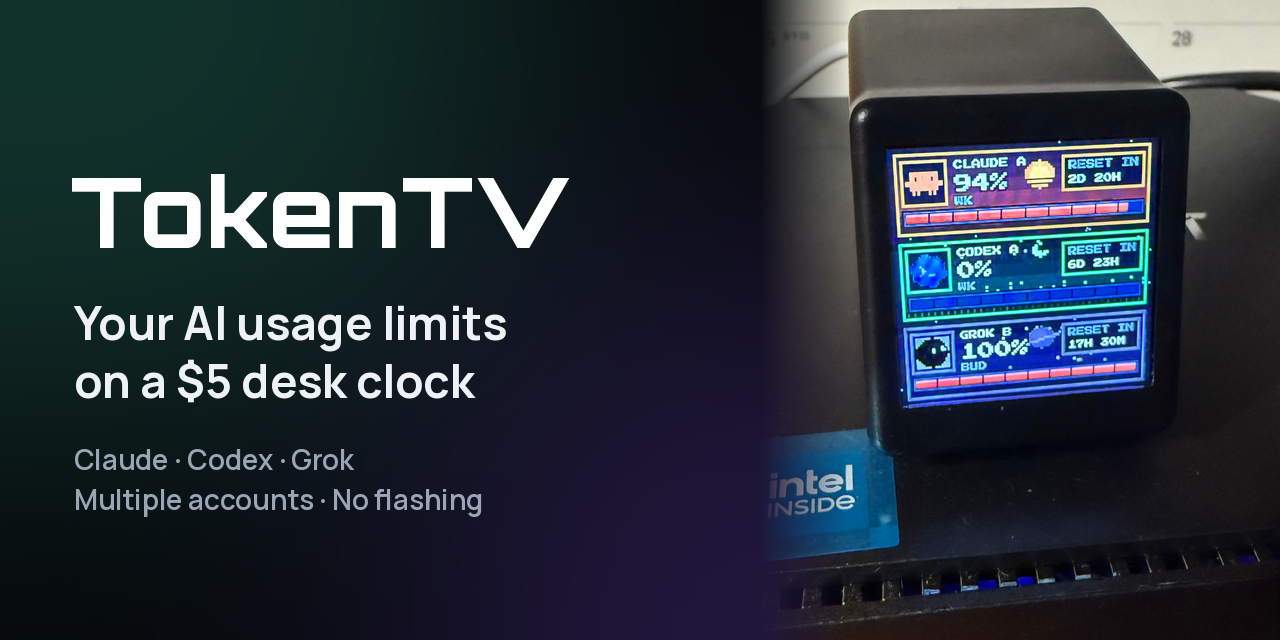
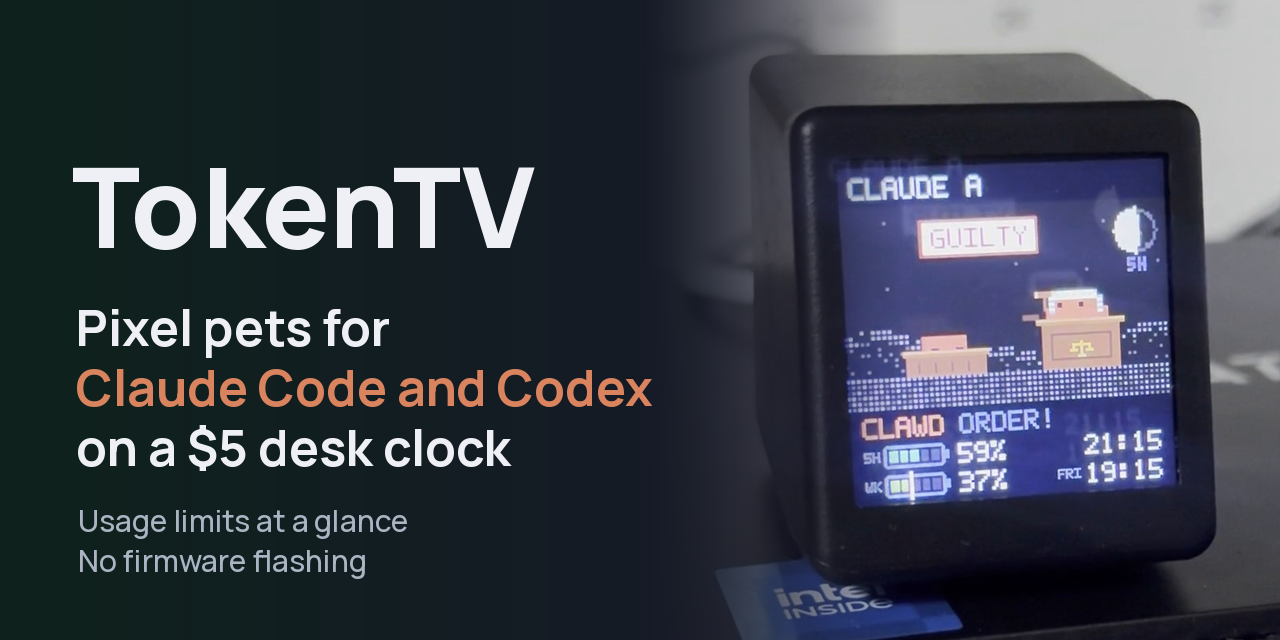
README: one real-clock GIF up top, the pitch on the first screen, shorter text; a link preview card with the pets
The top GIF is the daylight clip of a real clock playing sample scenes (court, ghost, sulk, raised hand, then
the limits), cropped close so the screen reads. The rendered four faces and the small clock GIF repeated the
photos above them, so they go (the files stay: the 0.6.2 pages on PyPI and npm still show them). "No firmware
flashing." is back in the first line, and the Korean README matches the English one.

diff --git a/README.md b/README.md
@@ -6,26 +6,21 @@
   <a href="https://github.com/steipete/CodexBar#desk-display"><img alt="Listed in CodexBar" src="https://img.shields.io/badge/listed%20in-CodexBar-555555"></a>
 </p>
 
-<p align="center"><a href="https://click6067-ship-it.github.io/token-tv/meet/"><img src="https://raw.githubusercontent.com/click6067-ship-it/token-tv/main/docs/images/real-reactions.gif" width="320" alt="A real TokenTV clock playing sample scenes: Clawd bows when Claude finishes a task, goes on trial when Claude runs rm -rf and turns its back when you swear at Claude"></a></p>
-<p align="center"><img src="https://raw.githubusercontent.com/click6067-ship-it/token-tv/main/docs/images/real-photos.jpg" width="600" alt="Digital, Sci-Fi HUD, Neon and Arcade on the real clock"> <a href="https://youtube.com/shorts/FN5DLILYiI0"><img src="https://raw.githubusercontent.com/click6067-ship-it/token-tv/main/docs/images/real-clock.gif" width="146" alt="TokenTV on a real clock (16 seconds; the full video is on YouTube)"></a></p>
-<p align="center"><img src="https://raw.githubusercontent.com/click6067-ship-it/token-tv/main/docs/images/main-faces.png" width="600" alt="The four main faces: Digital, Sci-Fi HUD, Neon and Arcade (sample data)"></p>
+<p align="center"><a href="https://click6067-ship-it.github.io/token-tv/meet/"><img src="https://raw.githubusercontent.com/click6067-ship-it/token-tv/main/docs/images/real-reactions.gif" width="360" alt="A real TokenTV clock playing sample scenes at 2.5x speed: Clawd goes on trial when Claude runs rm -rf, a ghost floats by when it deletes a file, it turns its back when you swear and raises a hand when Claude needs permission; then the usage limits"></a></p>
 
 Turn a ~$5 AliExpress clock (GeekMagic SmallTV) into pixel pets for Claude Code and Codex. They react to your agents and keep your usage limits in sight. No firmware flashing.
 
-**Live demo:** [click6067-ship-it.github.io/token-tv](https://click6067-ship-it.github.io/token-tv/)  
-**YouTube:** [https://www.youtube.com/shorts/FN5DLILYiI0](https://youtube.com/shorts/FN5DLILYiI0)  
 **Try it:** [live demo](https://click6067-ship-it.github.io/token-tv/) or `npx token-tv demo`, no clock or login needed.  
-**Set it up:** run `npx token-tv start` (or `uvx token-tv start`) on a computer that stays on. It finds your signed-in tools and the clock on your Wi-Fi, keeps running in the background and opens your dashboard. Or tell your AI *"Set up TokenTV for me"* ([AGENTS.md](https://github.com/click6067-ship-it/token-tv/blob/main/AGENTS.md)).
+**Set it up:** `npx token-tv start` (or `uvx token-tv start`) on a computer that stays on. It finds the clock on your Wi-Fi and your signed-in tools. Or tell your AI *"Set up TokenTV for me"* ([AGENTS.md](https://github.com/click6067-ship-it/token-tv/blob/main/AGENTS.md)).
 
-**New: Claude Code mode.** Clawd raises a hand when Claude Code needs you, bows when a turn ends, holds court over risky commands and sulks when you shout ([set it up](https://github.com/click6067-ship-it/token-tv/blob/main/docs/claude-code-mod.md)).
+<p align="center"><img src="https://raw.githubusercontent.com/click6067-ship-it/token-tv/main/docs/images/real-photos.jpg" width="600" alt="Digital, Sci-Fi HUD, Neon and Arcade on the real clock"></p>
 
-**New: Arcade.** When you're coding, the bots get busy too. Codex, for example, rains code to grow flowers while it spends tokens: the more it spends, the fuller the garden. Grok refuels its rocket and, resting, gazes up at Earth, and Copilot and Anti are the newest friends.
+**Claude Code mode:** Clawd raises a hand when Claude needs you, holds court over risky commands and sulks when you shout ([set it up](https://github.com/click6067-ship-it/token-tv/blob/main/docs/claude-code-mod.md)).  
+**Arcade:** the bots get busy while you code. Codex rains code on its garden, Grok fuels its rocket, and Copilot and Anti join in.
 
 <p align="center"><img src="https://raw.githubusercontent.com/click6067-ship-it/token-tv/main/docs/images/highlight-claude.gif" width="150" alt="Clawd breakdancing"> <img src="https://raw.githubusercontent.com/click6067-ship-it/token-tv/main/docs/images/highlight-codex.gif" width="150" alt="The Codex cloud raining code on its flowers"> <img src="https://raw.githubusercontent.com/click6067-ship-it/token-tv/main/docs/images/highlight-grok.gif" width="150" alt="Grok's rocket losing a side booster"> <img src="https://raw.githubusercontent.com/click6067-ship-it/token-tv/main/docs/images/highlight-copilot.gif" width="150" alt="Copilot drawing a heart in the sky"> <img src="https://raw.githubusercontent.com/click6067-ship-it/token-tv/main/docs/images/highlight-anti.gif" width="150" alt="Anti floating in zero gravity"></p>
 
-**Each reacts in its own way.** With little left, one rushes and another frets.  
-**And a few secret scenes.** Some come only at certain hours, some only after a bot has really worked, and some almost never. Each lasts only a moment, and we're not telling you which. [The collection](https://click6067-ship-it.github.io/token-tv/collection/) shows how much is out there.
+**Secret scenes:** some only at certain hours, some almost never. [The collection](https://click6067-ship-it.github.io/token-tv/collection/) shows how many there are.
 
-Simple numbers at a glance, and cute while it's at it. Coding alone at 3 a.m.? Your bots are still up with you, and someone might even make you coffee. Ideas, suggestions and PRs are welcome. *Cuteness is a feature.*
-
-**More:** [TokenTV in the wild](https://github.com/click6067-ship-it/token-tv/blob/main/docs/in-the-wild.md) (press, lists, builds by others, clips you may reuse) · [Which clock to buy](https://github.com/click6067-ship-it/token-tv/blob/main/docs/hardware-compatibility.md#buying-a-clock)
+*Cuteness is a feature.* Ideas and PRs welcome.  
+**More:** [video](https://youtube.com/shorts/FN5DLILYiI0) · [TokenTV in the wild](https://github.com/click6067-ship-it/token-tv/blob/main/docs/in-the-wild.md) · [which clock to buy](https://github.com/click6067-ship-it/token-tv/blob/main/docs/hardware-compatibility.md#buying-a-clock)

diff --git a/README.ko.md b/README.ko.md
@@ -6,23 +6,21 @@
   <a href="https://github.com/steipete/CodexBar#desk-display"><img alt="Listed in CodexBar" src="https://img.shields.io/badge/listed%20in-CodexBar-555555"></a>
 </p>
 
-<p align="center"><img src="docs/images/real-photos.jpg" width="600" alt="실제 시계의 Digital, Sci-Fi HUD, Neon, Arcade 화면"> <a href="https://youtube.com/shorts/FN5DLILYiI0"><img src="docs/images/real-clock.gif" width="146" alt="실제 시계에서 도는 TokenTV(16초, 전체 영상은 유튜브)"></a></p>
-<p align="center"><img src="docs/images/main-faces.png" width="600" alt="대표 화면 네 가지: Digital, Sci-Fi HUD, Neon, Arcade(샘플 데이터)"></p>
+<p align="center"><a href="https://click6067-ship-it.github.io/token-tv/meet/"><img src="docs/images/real-reactions.gif" width="360" alt="실제 TokenTV 시계가 예시 장면을 2.5배속으로 재생: Claude가 rm -rf를 돌리면 재판, 파일을 지우면 유령, 욕하면 등 돌리기, 허락이 필요하면 손 들기, 그리고 사용량 화면"></a></p>
 
-약 5달러 알리익스프레스 시계(GeekMagic SmallTV)를 AI 사용량 대시보드로 바꿉니다. 펌웨어는 그대로예요.
+약 5달러 알리익스프레스 시계(GeekMagic SmallTV)가 Claude Code와 Codex의 픽셀 펫이 됩니다. 에이전트에 반응하고 사용 한도를 보여 줍니다. 펌웨어는 그대로예요.
 
-**라이브 데모:** [click6067-ship-it.github.io/token-tv](https://click6067-ship-it.github.io/token-tv/)  
-**유튜브:** [https://www.youtube.com/shorts/FN5DLILYiI0](https://youtube.com/shorts/FN5DLILYiI0)  
 **구경하기:** [라이브 데모](https://click6067-ship-it.github.io/token-tv/) 또는 `npx token-tv demo`, 시계·로그인 없이 바로.  
-**설치하기:** 계속 켜 두는 컴퓨터에서 `npx token-tv start`(또는 `uvx token-tv start`). 로그인된 도구와 같은 와이파이의 시계를 찾고, 백그라운드에서 계속 돌며, 대시보드를 엽니다. AI에게 *"TokenTV 설정해줘"* 라고 해도 됩니다([AGENTS.md](AGENTS.md)).
+**설치하기:** 계속 켜 두는 컴퓨터에서 `npx token-tv start`(또는 `uvx token-tv start`). 같은 와이파이의 시계와 로그인된 도구를 찾습니다. AI에게 *"TokenTV 설정해줘"* 라고 해도 됩니다([AGENTS.md](AGENTS.md)).
 
-**새 기능 Claude Code 모드:** Claude Code가 허락을 기다리면 Clawd가 손을 들고, 한 턴이 끝나면 인사합니다. 위험한 명령에는 법정을 열고, 소리치면 삐집니다([설정 방법](https://github.com/click6067-ship-it/token-tv/blob/main/docs/claude-code-mod.md)).
+<p align="center"><img src="docs/images/real-photos.jpg" width="600" alt="실제 시계의 Digital, Sci-Fi HUD, Neon, Arcade 화면"></p>
 
-**새 화면 Arcade:** 코딩하는 동안 봇들도 바삐 움직입니다. 예를 들어 Codex는 토큰을 쓰는 동안 코드 비를 뿌려 꽃을 키웁니다. 많이 쓸수록 꽃밭이 가득 찹니다. Grok은 로켓에 연료를 넣다가 쉴 때는 지구를 올려다봅니다. Copilot과 Anti는 새로 온 친구들입니다.
+**Claude Code 모드:** Claude가 허락을 기다리면 Clawd가 손을 들고, 위험한 명령에는 법정을 열고, 소리치면 삐집니다([설정 방법](docs/claude-code-mod.md)).  
+**Arcade:** 코딩하는 동안 봇들도 바쁩니다. Codex는 코드 비로 꽃밭을 키우고, Grok은 로켓에 연료를 넣고, Copilot과 Anti도 함께합니다.
 
 <p align="center"><img src="docs/images/highlight-claude.gif" width="150" alt="브레이크댄스 추는 Clawd"> <img src="docs/images/highlight-codex.gif" width="150" alt="꽃밭에 코드 비를 뿌리는 Codex 구름"> <img src="docs/images/highlight-grok.gif" width="150" alt="옆 부스터가 떨어져 나간 Grok의 로켓"> <img src="docs/images/highlight-copilot.gif" width="150" alt="하늘에 하트를 그리는 Copilot"> <img src="docs/images/highlight-anti.gif" width="150" alt="무중력에 떠오른 Anti"></p>
 
-**저마다 다르게 반응합니다.** 얼마 안 남으면 누군가는 허둥대고 누군가는 초조해합니다.  
-**그리고 비밀 장면이 몇 개 있습니다.** 어떤 건 정해진 시간에만, 어떤 건 봇이 정말 열심히 일한 뒤에만, 어떤 건 거의 나오지 않습니다. 잠깐만 나오고, 무엇인지는 말하지 않겠습니다. 얼마나 있는지는 [도감](https://click6067-ship-it.github.io/token-tv/collection/)에서 볼 수 있습니다.
+**비밀 장면:** 정해진 시간에만, 혹은 거의 나오지 않는 장면들. 얼마나 있는지는 [도감](https://click6067-ship-it.github.io/token-tv/collection/)에서.
 
-숫자는 한눈에, 그리고 귀엽게. 새벽 3시에 혼자 코딩해도 봇들이 곁을 지킵니다. 누군가 커피를 타 줄지도 모르죠. 아이디어, 제안, PR 모두 환영입니다. *귀여움이 곧 기능입니다.*
+*귀여움이 곧 기능입니다.* 아이디어와 PR 환영합니다.  
+**더 보기:** [영상](https://youtube.com/shorts/FN5DLILYiI0) · [TokenTV 소개된 곳](docs/in-the-wild.md) · [어떤 시계를 살까](docs/hardware-compatibility.md#buying-a-clock)
